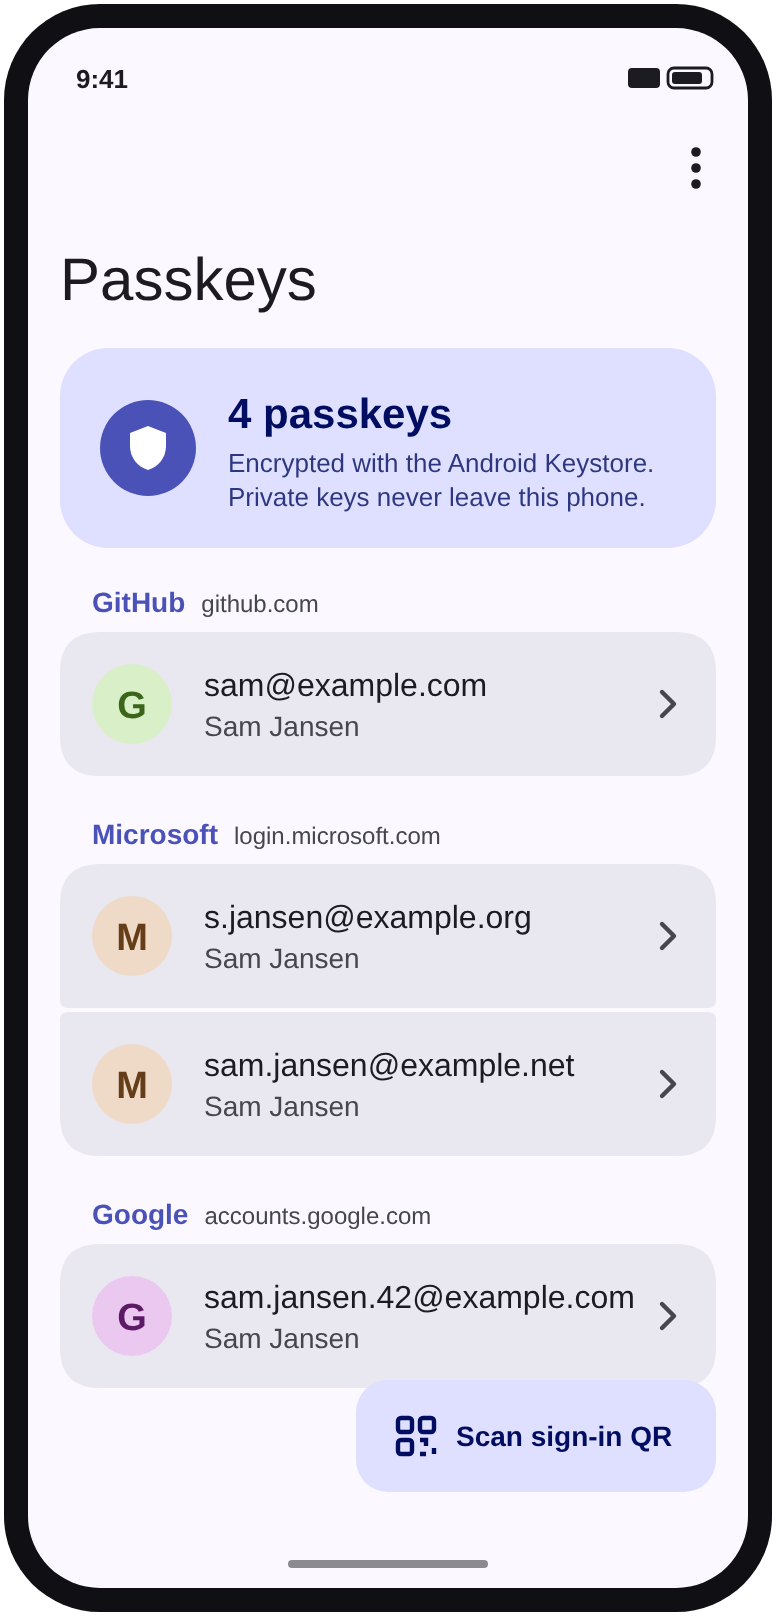
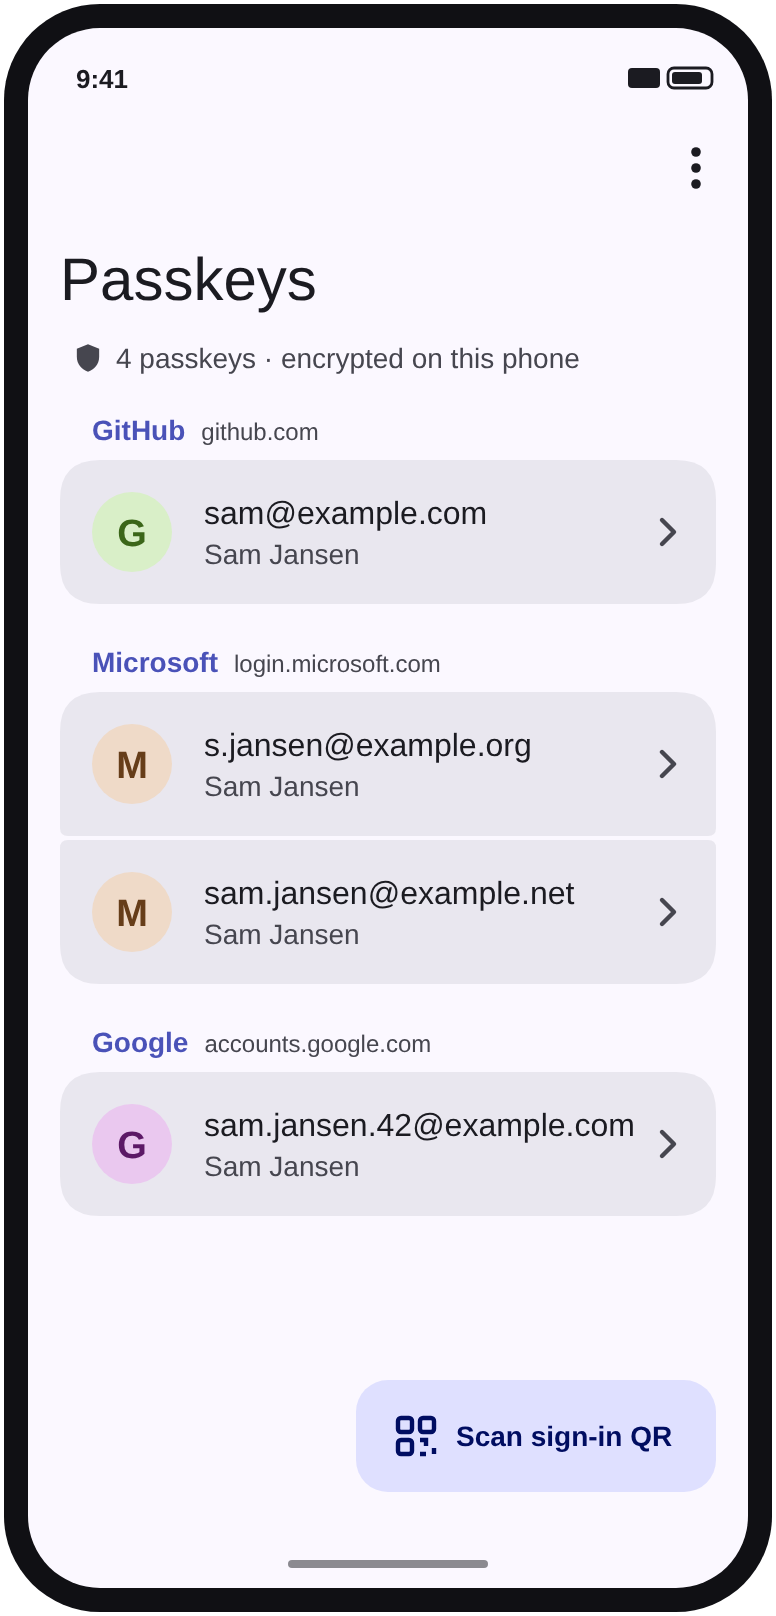
Website: run your own tunnel server, with a screenshot of the setting
The phone decides which tunnel server is used; the new section explains that,
the server in server/, and the Tunnel server setting. Home, details and
activity screenshots now show the summary line instead of the old card. The
choice boxes in the setting get an outline (same colour as the dialog before).

Claude-Session: https://claude.ai/code/session_01Sf6BjLYgBsn6Pwp3AkGd6P

diff --git a/docs/index.html b/docs/index.html
@@ -65,6 +65,10 @@
   .shot img{width:100%;height:auto;display:block}
   .shot p{text-align:center;color:var(--muted);font-size:14px;margin:10px 0 0}
   .shot-row.two{grid-template-columns:repeat(2,1fr);max-width:66%;margin:0 auto}
+  .own{display:grid;grid-template-columns:1fr 300px;gap:40px;align-items:center}
+  .own p{margin:0 0 14px}
+  .own code{font-size:.92em}
+  @media (max-width:860px){ .own{grid-template-columns:1fr} .own .shot{max-width:300px;margin:0 auto} }
   .shots h3{text-align:center;margin:48px 0 20px}
 
 
@@ -160,7 +164,7 @@
     </div>
     <div class="twin">
       <p class="note">⚖ <strong>Sovereignty comes with responsibility.</strong> There is no cloud copy to fall back on: lose the phone, and the passkeys on it are gone unless you kept a backup. Keep a password-protected export somewhere safe. An unencrypted export holds every private key, so treat it like the keys to your house.</p>
-      <p class="note">🌐 <strong>What you don’t control.</strong> Signing in on a computer needs a tunnel server on the internet to bring phone and computer together; for Android phones Google runs it. It only ever sees encrypted data, and it cannot sign anything (<a href="#qr-signin">how that works</a>).</p>
+      <p class="note">🌐 <strong>The meeting point.</strong> Signing in on a computer needs a tunnel server on the internet to bring phone and computer together. By default that is Google’s; it only ever sees encrypted data, and it cannot sign anything (<a href="#qr-signin">how that works</a>). The phone picks the server, so you can also <a href="#own-tunnel">run your own</a>.</p>
     </div>
   </div>
 </section>
@@ -290,6 +294,22 @@
     </div>
 
     <p class="note" style="margin-top:22px">This is the FIDO “hybrid” transport, the open protocol that Android phones and iPhones use for this. Because it is open, an independent app can speak it too: PassKeyChain does all eight steps itself, in about 1000 lines of Kotlin, and has signed in to a Microsoft account this way. Passkey sovereignty in practice: your key, your phone, the same front door as everyone else.</p>
+  </div>
+</section>
+
+<section id="own-tunnel">
+  <div class="wrap">
+    <h2>Run your own tunnel server</h2>
+    <p class="sub">The phone decides which tunnel server is used, not the website and not the browser. So you can choose one you run yourself.</p>
+    <div class="own">
+      <div>
+        <p>In step&nbsp;2 the phone opens the tunnel, and in step&nbsp;3 its Bluetooth broadcast tells the browser where that tunnel is. The browser simply follows, and the website never learns which server was used. Android phones use Google’s server; PassKeyChain does too, unless you choose another.</p>
+        <p>Browsers can reach more servers than Google’s: for numbers 256 to 65535 they compute a hostname themselves, such as <code>cable.wufkweyy3uaxb.com</code>. PassKeyChain’s source code includes <a href="https://github.com/rsnel/passkeychain/tree/main/server">a small tunnel server in plain Python and a script that lists those names</a>. Find one that is still free, register it, and run the server.</p>
+        <p>Then, in the app, open the menu and choose <strong>Tunnel server</strong>. Pick your own server as first choice (type its number to check that the name is yours), and a second choice, such as Google, for when yours can’t be reached. The Activity log notes every sign-in that went through a server other than Google’s.</p>
+        <p class="note">Sign-ins are encrypted end to end on any tunnel server. Running your own means Google no longer sees when and from where you sign in, and your sign-ins no longer depend on its server. Not yet tried with Chrome on a real server; whether Safari and Firefox accept these computed names is not known yet.</p>
+      </div>
+      <div class="shot"><img src="assets/screen_tunnel.png" alt="The Tunnel server setting in PassKeyChain: first choice cable.wufkweyy3uaxb.com (number 266), and Google’s cable.ua5v.com if that can’t be reached, with a link on how to run your own server" loading="lazy"><p>Your own server first, Google as fallback.</p></div>
+    </div>
   </div>
 </section>
 

diff --git a/app/src/main/java/it/snel/passkeychain/ui/TunnelServerDialog.kt b/app/src/main/java/it/snel/passkeychain/ui/TunnelServerDialog.kt
@@ -1,5 +1,6 @@
 package it.snel.passkeychain.ui
 
+import androidx.compose.foundation.BorderStroke
 import androidx.compose.foundation.clickable
 import androidx.compose.foundation.layout.Arrangement
 import androidx.compose.foundation.layout.Box
@@ -31,6 +32,7 @@ import androidx.compose.runtime.remember
 import androidx.compose.runtime.setValue
 import androidx.compose.ui.Alignment
 import androidx.compose.ui.Modifier
+import androidx.compose.ui.graphics.Color
 import androidx.compose.ui.platform.LocalUriHandler
 import androidx.compose.ui.text.font.FontFamily
 import androidx.compose.ui.unit.dp
@@ -95,7 +97,8 @@ private fun Choice(label: String, value: String, onClick: () -> Unit) {
     Surface(
         onClick = onClick,
         shape = RoundedCornerShape(12.dp),
-        color = MaterialTheme.colorScheme.surfaceContainerHigh,
+        color = Color.Transparent, // the dialog is surfaceContainerHigh already: an outline sets it apart
+        border = BorderStroke(1.dp, MaterialTheme.colorScheme.outlineVariant),
         modifier = Modifier.fillMaxWidth(),
     ) {
         Column(Modifier.padding(horizontal = 14.dp, vertical = 10.dp)) {
